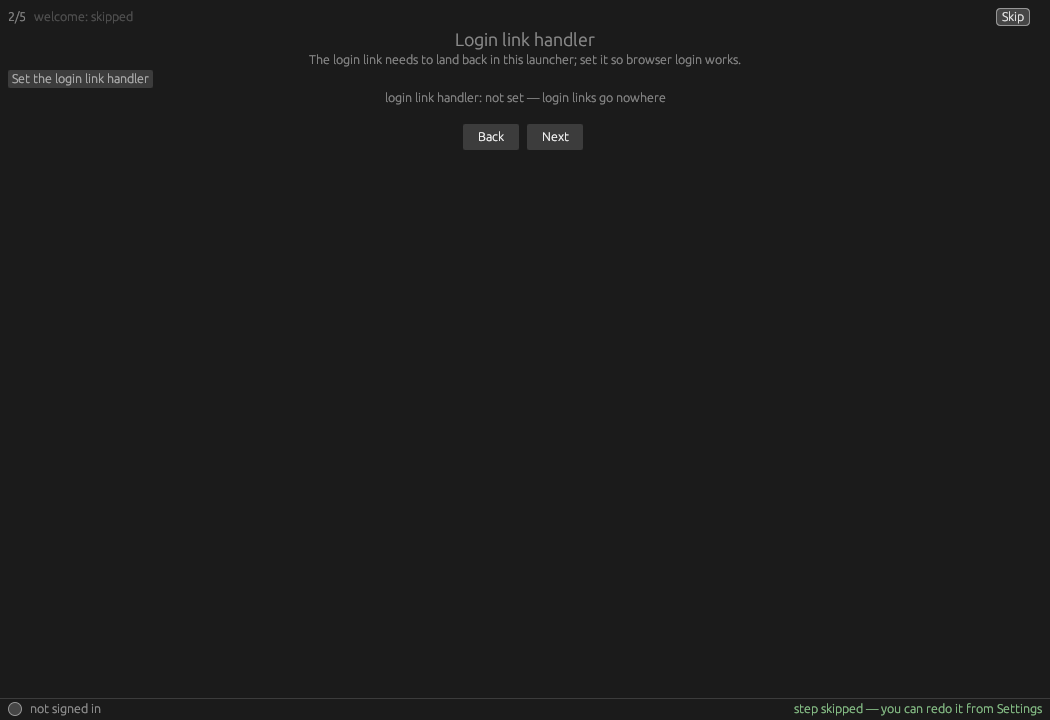
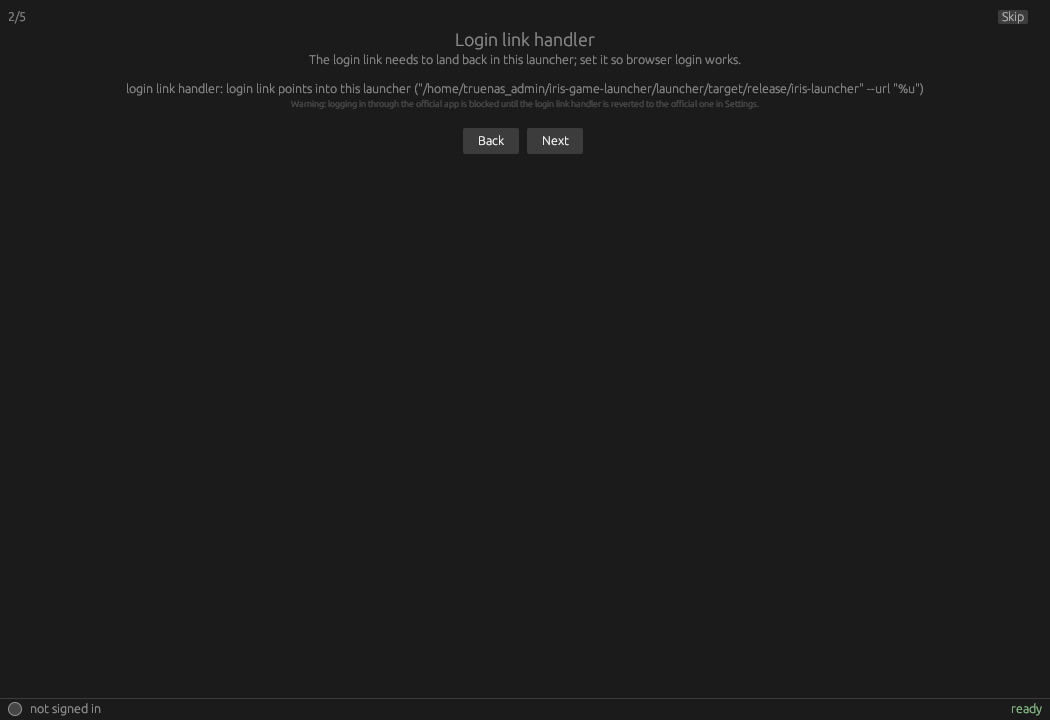
wizard and settings show warning when the login link handler is not the official one (handler_warning keys); melon loader popup localized via melon_* keys with version text left and radio dot right aligned; bump 0.36.0

diff --git a/launcher/src/main.rs b/launcher/src/main.rs
@@ -6348,6 +6348,14 @@ impl eframe::App for App {
                             &tr(&self.config, "login_link_handler"),
                             &[("status", &auth::handler_status(&self.config.lang))],
                         ));
+                        #[cfg(any(target_os = "linux", target_os = "windows"))]
+                        if auth::handler_owner() != "official" {
+                            ui.label(
+                                egui::RichText::new(tr(&self.config, "handler_warning"))
+                                    .small()
+                                    .weak(),
+                            );
+                        }
                         ui.label(tr(&self.config, "login_step_2"));
                         ui.horizontal(|ui| {
                             if ui.button(tr(&self.config, "login_btn")).clicked() {
@@ -7096,35 +7104,48 @@ impl eframe::App for App {
                 .get(idx)
                 .map(|g| !g.install_dir.is_empty() && !g.partial)
                 .unwrap_or(false);
-            egui::Window::new(format!("MelonLoader for {name}"))
-                .order(egui::Order::Foreground)
-                .anchor(egui::Align2::CENTER_CENTER, [0.0, 0.0])
-                .show(ctx, |ui| {
-                    if !installed {
-                        ui.label("this game is not installed yet — install it first");
+            egui::Window::new(i18n::fill(
+                tr(&self.config, "melon_popup_title").as_str(),
+                &[("name", &name)],
+            ))
+            .order(egui::Order::Foreground)
+            .anchor(egui::Align2::CENTER_CENTER, [0.0, 0.0])
+            .show(ctx, |ui| {
+                if !installed {
+                    ui.label(tr(&self.config, "melon_not_installed"));
+                }
+                if self.melon_releases.is_empty() {
+                    ui.label(tr(&self.config, "proton_version_loading"));
+                } else {
+                    // Rows: version text left, radio dot right, so each line
+                    // reads like a checkbox on its own column.
+                    for (i, (tag, _, _)) in self.melon_releases.iter().enumerate() {
+                        ui.horizontal(|ui| {
+                            ui.with_layout(
+                                egui::Layout::right_to_left(egui::Align::Center),
+                                |ui| {
+                                    if ui.radio(i == self.melon_pick, "").clicked() {
+                                        self.melon_pick = i;
+                                    }
+                                    ui.label(tag.clone());
+                                },
+                            );
+                        });
                     }
-                    if self.melon_releases.is_empty() {
-                        ui.label(tr(&self.config, "proton_version_loading"));
-                    } else {
-                        for (i, (tag, _, _)) in self.melon_releases.iter().enumerate() {
-                            if ui.radio(i == self.melon_pick, tag).clicked() {
-                                self.melon_pick = i;
+                    ui.add_enabled_ui(
+                        installed && !self.install_inflight && !(self.dl_busy(idx)),
+                        |ui| {
+                            if ui.button(tr(&self.config, "melon_install")).clicked() {
+                                self.install_melon(idx);
+                                self.melon_popup = None;
                             }
-                        }
-                        ui.add_enabled_ui(
-                            installed && !self.install_inflight && !(self.dl_busy(idx)),
-                            |ui| {
-                                if ui.button("Install into this game").clicked() {
-                                    self.install_melon(idx);
-                                    self.melon_popup = None;
-                                }
-                            },
-                        );
-                    }
-                    if ui.button("Close").clicked() {
-                        self.melon_popup = None;
-                    }
-                });
+                        },
+                    );
+                }
+                if ui.button(tr(&self.config, "dir_popup_close")).clicked() {
+                    self.melon_popup = None;
+                }
+            });
         }
         #[cfg(not(target_os = "windows"))]
         if self.proton_popup {

diff --git a/launcher/languages/pl.rs b/launcher/languages/pl.rs
@@ -98,6 +98,9 @@ pub(crate) const PL: &[(&str, &str)] = &[
     ("handler_take", "Przejmij link logowania (launcher)"),
     ("handler_give_back", "Oddaj link logowania aplikacji vendora"),
     ("apply_btn", "Apply"),
+    ("melon_popup_title", "MelonLoader dla {name}"),
+    ("melon_not_installed", "ta gra nie jest jeszcze zainstalowana — zainstaluj ją najpierw"),
+    ("melon_install", "Zainstaluj do tej gry"),
     ("dir_popup_title", "Wybierz folder"),
     ("dir_popup_inside", "wewnątrz: {path}"),
     ("dir_popup_none", "brak podfolderów tutaj"),
@@ -137,6 +140,7 @@ pub(crate) const PL: &[(&str, &str)] = &[
     ("handler_back_linux", "łącze logowania zwrócone do domyślnej obsługi systemowej"),
     ("handler_back_win", "klucz łącza logowania usunięty"),
     ("handler_install_failed", "instalacja obsługi łącza logowania nie powiodła się: {msg}"),
+    ("handler_warning", "Uwaga: logowanie przez aplikację dostawcy jest zablokowane, dopóki obsługa łącza logowania nie zostanie przywrócona do obsługi dostawcy w Ustawieniach."),
     ("handler_change_failed", "zmiana obsługi łącza logowania nie powiodła się: {msg}"),
     ("library_count_label", "gry w bibliotece"),
     ("onboard_skip", "Pomiń"),

diff --git a/launcher/languages/en.rs b/launcher/languages/en.rs
@@ -98,6 +98,9 @@ pub(crate) const EN: &[(&str, &str)] = &[
     ("handler_take", "Take the login link (launcher)"),
     ("handler_give_back", "Give the login link back to the vendor app"),
     ("apply_btn", "Apply"),
+    ("melon_popup_title", "MelonLoader for {name}"),
+    ("melon_not_installed", "this game is not installed yet — install it first"),
+    ("melon_install", "Install into this game"),
     ("dir_popup_title", "Choose a folder"),
     ("dir_popup_inside", "inside: {path}"),
     ("dir_popup_none", "no subfolders here"),
@@ -137,6 +140,7 @@ pub(crate) const EN: &[(&str, &str)] = &[
     ("handler_back_linux", "login link handed back to the system default"),
     ("handler_back_win", "login link key removed"),
     ("handler_install_failed", "login link handler install failed: {msg}"),
+    ("handler_warning", "Warning: logging in through the official app is blocked until the login link handler is reverted to the official one in Settings."),
     ("handler_change_failed", "login link handler change failed: {msg}"),
     ("library_count_label", "library games"),
     ("onboard_skip", "Skip"),

diff --git a/launcher/src/onboarding.rs b/launcher/src/onboarding.rs
@@ -263,6 +263,14 @@ pub fn render(app: &mut App, ui: &mut egui::Ui) {
                 tr(&app.config, "login_link_handler_label"),
                 crate::auth::handler_status(&app.config.lang)
             ));
+            #[cfg(any(target_os = "linux", target_os = "windows"))]
+            if crate::auth::handler_owner() != "official" {
+                ui.label(
+                    egui::RichText::new(tr(&app.config, "handler_warning"))
+                        .small()
+                        .weak(),
+                );
+            }
         }
         Step::Login => {
             ui.heading(tr(&app.config, "onboard_login_head"));
